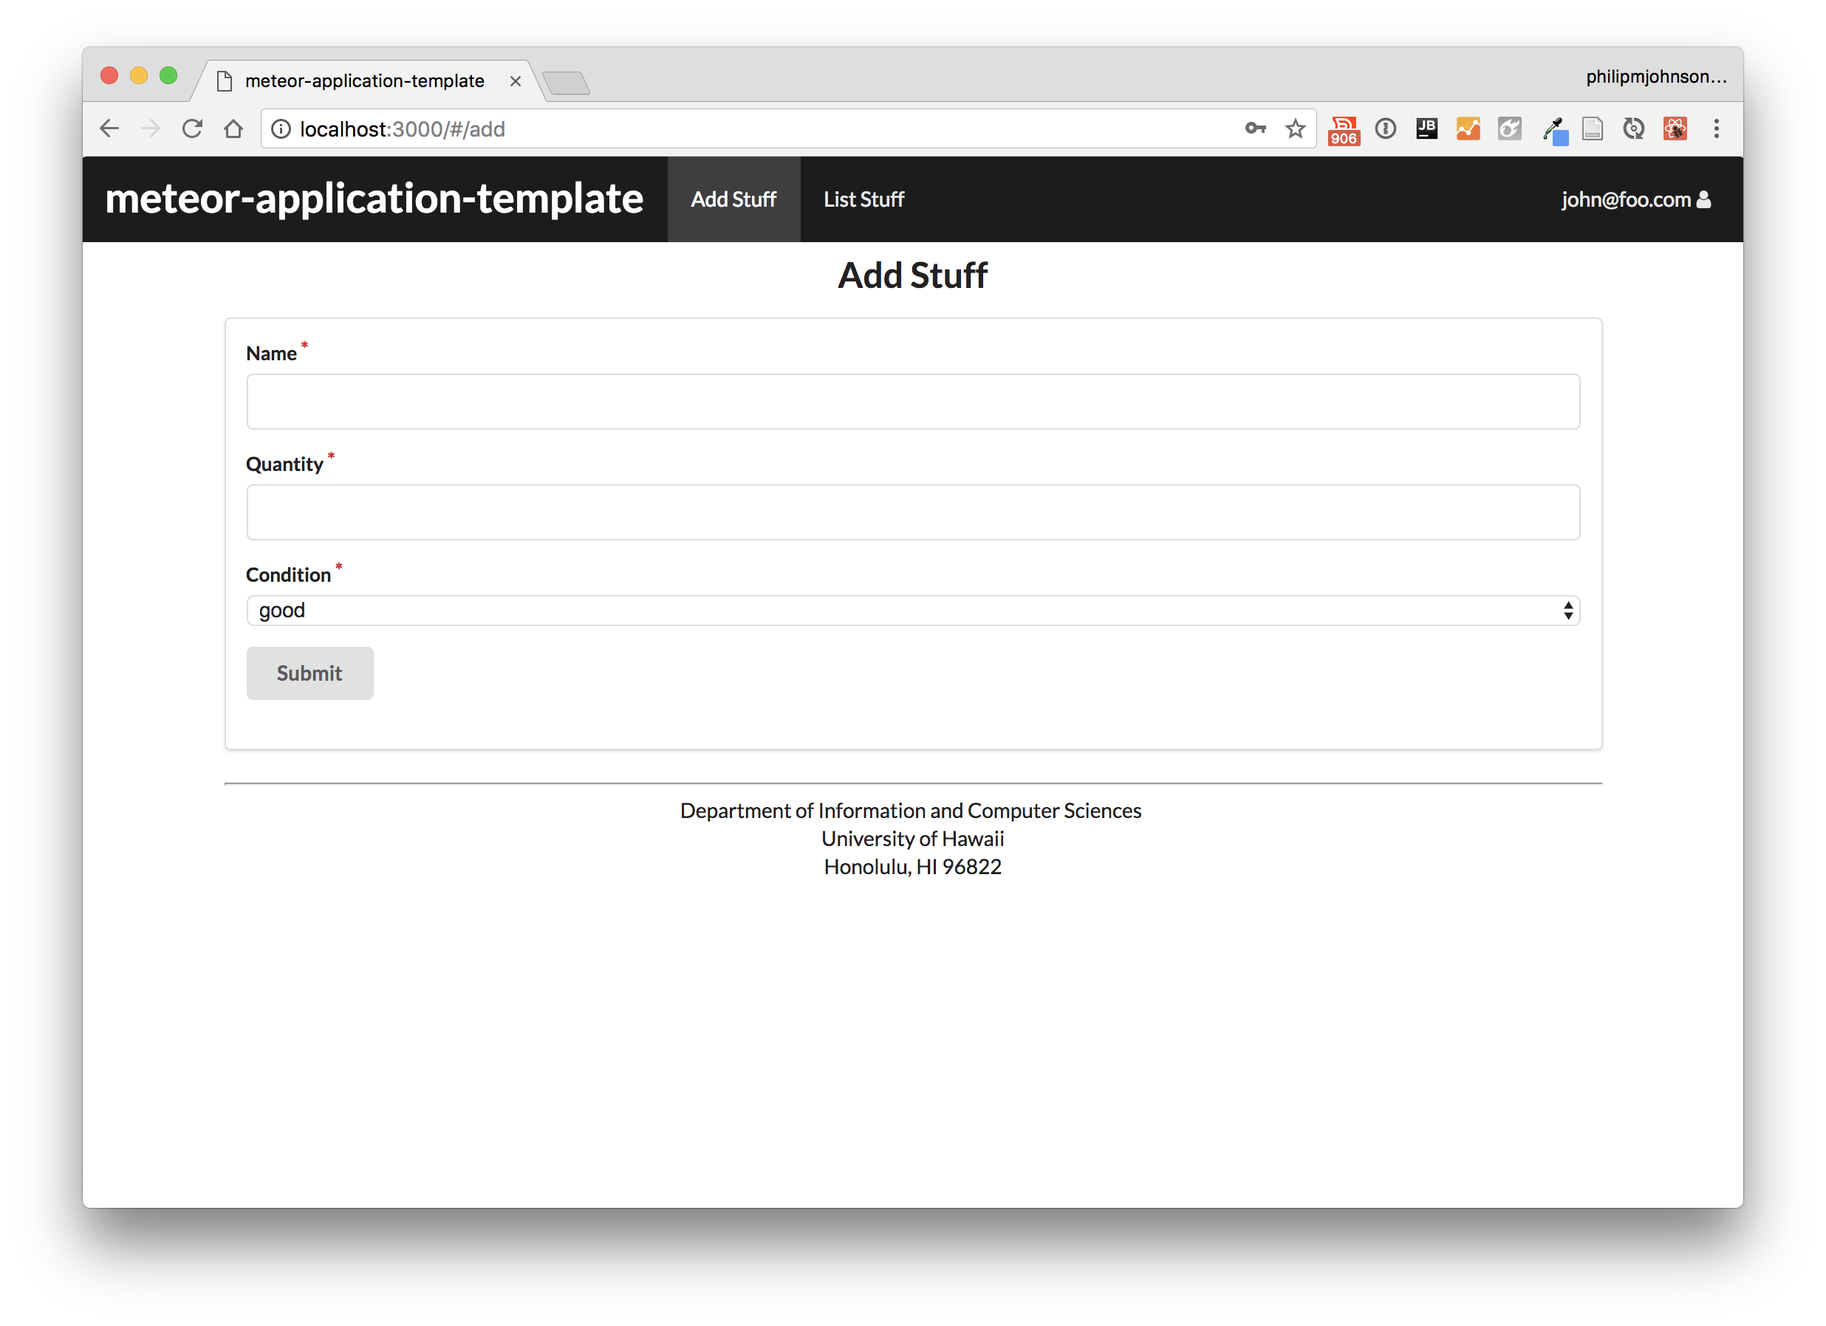
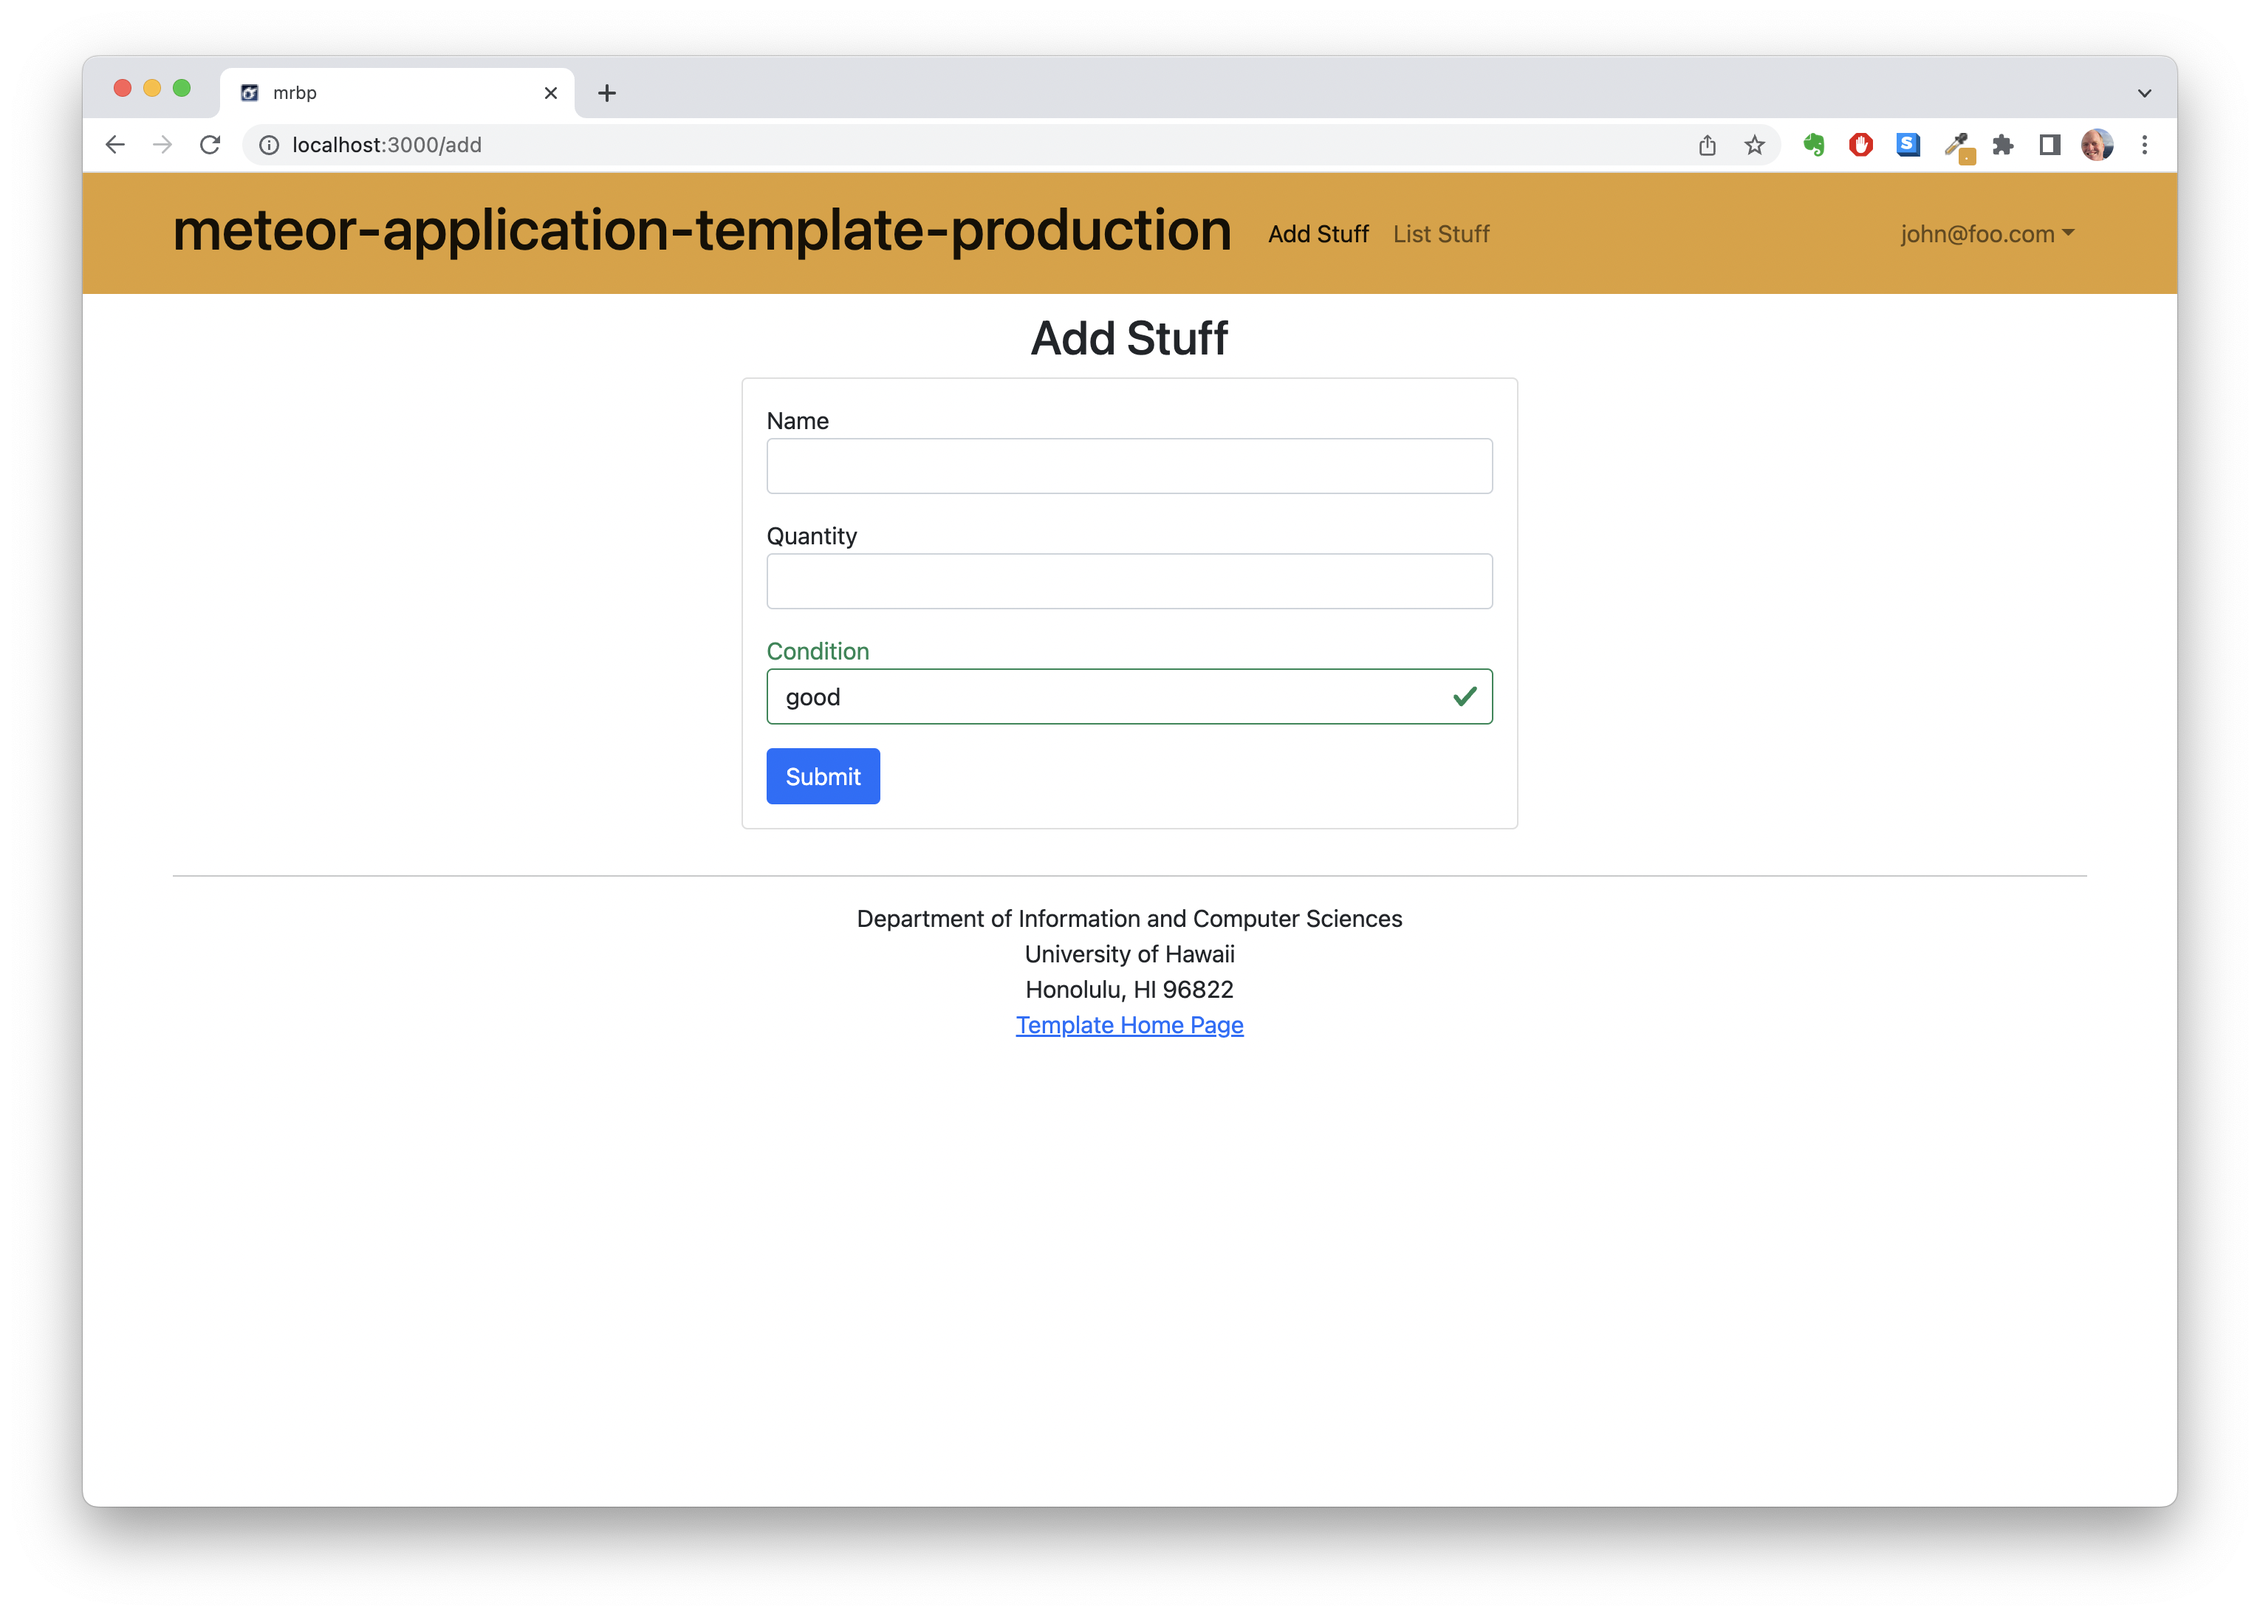
Updated doc png files.

diff --git a/app/imports/ui/components/NavBar.jsx b/app/imports/ui/components/NavBar.jsx
@@ -20,7 +20,7 @@ const NavBar = () => {
   return (
     <Navbar bg="light" expand="lg" style={menuStyle}>
       <Container>
-        <Navbar.Brand id={COMPONENT_IDS.NAVBAR_LANDING_PAGE} as={NavLink} activeClassName="" exact to="/"><h1>meteor-react-bootstrap-production</h1></Navbar.Brand>
+        <Navbar.Brand id={COMPONENT_IDS.NAVBAR_LANDING_PAGE} as={NavLink} activeClassName="" exact to="/"><h1>meteor-application-template-production</h1></Navbar.Brand>
         <Navbar.Toggle aria-controls={COMPONENT_IDS.NAVBAR_COLLAPSE}/>
         <Navbar.Collapse id={COMPONENT_IDS.NAVBAR_COLLAPSE}>
           <Nav className="me-auto justify-content-start">

diff --git a/app/imports/ui/components/LoadingSpinner.jsx b/app/imports/ui/components/LoadingSpinner.jsx
@@ -2,9 +2,14 @@ import React from 'react';
 import Container from 'react-bootstrap/Container';
 import Row from 'react-bootstrap/Row';
 import Spinner from 'react-bootstrap/Spinner';
+import PropTypes from 'prop-types';
 
-const LoadingSpinner = () => (<Container>
-  <Row className="justify-content-md-center"><Spinner animation="border"/>Getting data</Row>
+const LoadingSpinner = ({ message }) => (<Container>
+  <Row className="justify-content-md-center"><Spinner animation="border"/>{message || 'Getting data'}</Row>
 </Container>);
+
+LoadingSpinner.propTypes = {
+  message: PropTypes.string,
+};
 
 export default LoadingSpinner;

diff --git a/app/imports/ui/components/Footer.jsx b/app/imports/ui/components/Footer.jsx
@@ -13,7 +13,7 @@ const Footer = () => {
           Department of Information and Computer Sciences <br/>
           University of Hawaii<br/>
           Honolulu, HI 96822 <br/>
-          <a href="http://ics-software-engineering.github.io/meteor-application-template-react">Template Home Page</a></Col>
+          <a href="http://ics-software-engineering.github.io/meteor-application-template-production">Template Home Page</a></Col>
       </Container>
     </footer>
   );

diff --git a/app/imports/ui/pages/ListStuff.jsx b/app/imports/ui/pages/ListStuff.jsx
@@ -47,7 +47,7 @@ const ListStuff = () => {
             </tbody>
           </Table></Col>
       </Row>
-    </Container>) : <LoadingSpinner/>);
+    </Container>) : <LoadingSpinner message="Loading Stuff"/>);
 };
 
 export default ListStuff;

diff --git a/index.md b/index.md
@@ -1,6 +1,6 @@
 ![](https://raw.githubusercontent.com/ics-software-engineering/meteor-application-template-react/master/doc/landing-page.png)
 
-Meteor-application-template-react is a sample Meteor 2.6 application that illustrates:
+Meteor-application-template-production is a sample Meteor 2.7.1 application that illustrates:
 
   * A standard directory layout using 'imports/' as recommended in the [Meteor Guide](https://guide.meteor.com/structure.html)
   * [Semantic UI React](https://react.semantic-ui.com/) for user interface.
@@ -47,57 +47,50 @@ The first time you run the app, it will create some default users and data. Here
 ```
 meteor npm run start
 
-> meteor-application-template-react@ start /Users/philipjohnson/github/ics-software-engineering/meteor-application-template-react/app
-> meteor --no-release-check --settings ../config/settings.development.json
 
-[[[[[ ~/github/ics-software-engineering/meteor-application-template-react/app ]]]]]
+> mrbp@ start /Users/carletonmoore/GitHub/ICS314/mrbp/app
+> npm-run-all css start-meteor
 
-=> Started proxy.
-=> Started MongoDB.
-I20180227-13:33:02.716(-10)? Creating the default user(s)
-I20180227-13:33:02.742(-10)?   Creating user admin@foo.com.
-I20180227-13:33:02.743(-10)?   Creating user john@foo.com.
-I20180227-13:33:02.743(-10)? Creating default data.
-I20180227-13:33:02.743(-10)?   Adding: Basket (john@foo.com)
-I20180227-13:33:02.743(-10)?   Adding: Bicycle (john@foo.com)
-I20180227-13:33:02.743(-10)?   Adding: Banana (admin@foo.com)
-I20180227-13:33:02.744(-10)?   Adding: Boogie Board (admin@foo.com)
+
+> mrbp@ css /Users/carletonmoore/GitHub/ICS314/mrbp/app
+> npm-run-all css-compile css-prefix
+
+
+> mrbp@ css-compile /Users/carletonmoore/GitHub/ICS314/mrbp/app
+> node-sass --include-path node_modules --output-style compressed --source-map true --source-map-contents true --precision 6 scss -o imports/startup/client/css/
+
+Rendering Complete, saving .css file...
+Wrote Source Map to /Users/carletonmoore/GitHub/ICS314/mrbp/app/imports/startup/client/css/theme.css.map
+Wrote CSS to /Users/carletonmoore/GitHub/ICS314/mrbp/app/imports/startup/client/css/theme.css
+Wrote 1 CSS files to /Users/carletonmoore/GitHub/ICS314/mrbp/app/imports/startup/client/css/
+
+> mrbp@ css-prefix /Users/carletonmoore/GitHub/ICS314/mrbp/app
+> postcss imports/startup/client/css/theme.css --replace --use autoprefixer --map
+
+
+> mrbp@ start-meteor /Users/carletonmoore/GitHub/ICS314/mrbp/app
+> meteor --no-release-check --exclude-archs web.browser.legacy,web.cordova --settings ../config/settings.development.json
+
+[[[[[ ~/GitHub/ICS314/mrbp/app ]]]]]          
+
+=> Started proxy.                             
+=> Started HMR server.                        
+=> Started MongoDB.                           
+I20220517-11:01:35.531(-10)? Creating the default user(s)
+I20220517-11:01:35.538(-10)?   Creating user admin@foo.com with role ADMIN.
+I20220517-11:01:35.700(-10)? Defining ADMIN admin@foo.com with password changeme
+I20220517-11:01:35.701(-10)?   Creating user john@foo.com with role USER.
+I20220517-11:01:35.766(-10)? Defining USER john@foo.com with password changeme
+I20220517-11:01:35.870(-10)? Creating default data.
+I20220517-11:01:35.870(-10)?   Adding: Basket (john@foo.com)
+I20220517-11:01:35.971(-10)?   Adding: Bicycle (john@foo.com)
+I20220517-11:01:35.973(-10)?   Adding: Banana (admin@foo.com)
+I20220517-11:01:35.975(-10)?   Adding: Boogie Board (admin@foo.com)
+I20220517-11:01:36.162(-10)? Monti APM: completed instrumenting the app
 => Started your app.
 
 => App running at: http://localhost:3000/
 ```
-
-
-### Note regarding "bcrypt warning":
-
-You might also get the following message when you run this application:
-
-```
-Note: you are using a pure-JavaScript implementation of bcrypt.
-While this implementation will work correctly, it is known to be
-approximately three times slower than the native implementation.
-In order to use the native implementation instead, run
-
-  meteor npm install --save bcrypt
-
-in the root directory of your application.
-```
-
-On some operating systems (particularly Windows), installing bcrypt is much more difficult than implied by the above message. Bcrypt is only used in Meteor for password checking, so the performance implications are negligible until your site has very high traffic. You can safely ignore this warning without any problems during initial stages of development.
-
-### Note regarding "MongoError: not master and slaveOk=false":
-
-Intermittently, you may see the following error message in the console when the system starts up:
-
-```
-MongoError: not master and slaveOk=false
-     at queryCallback (/Users/philipjohnson/.meteor/packages/npm-mongo/.3.1.1.1mmptof.qcqo++os+web.browser+web.browser.legacy+web.cordova/npm/node_modules/mongodb-core/lib/cursor.js:248:25)
-     at /Users/philipjohnson/.meteor/packages/npm-mongo/.3.1.1.1mmptof.qcqo++os+web.browser+web.browser.legacy+web.cordova/npm/node_modules/mongodb-core/lib/connection/pool.js:532:18
-     at _combinedTickCallback (internal/process/next_tick.js:131:7)
-     at process._tickDomainCallback (internal/process/next_tick.js:218:9)
-```
-
-While irritating, this message appears to be harmless and [possibly related to a race condition between the development instance of Mongo and Meteor](https://github.com/meteor/meteor/issues/9026#issuecomment-330850366). By harmless, I mean that in most cases, the console goes on to display `App running at: http://localhost:3000/` and no problems occur during run time.
 
 ### Viewing the running app
 
